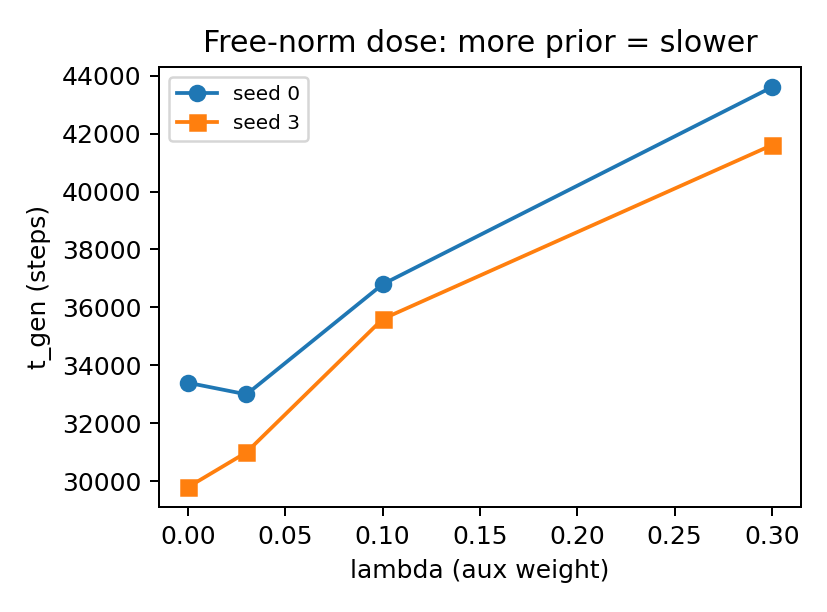
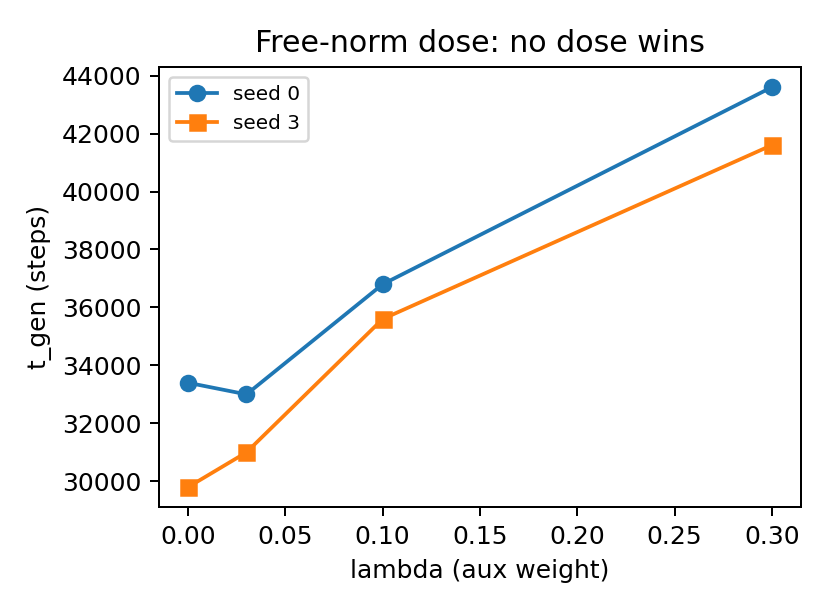
paper4: address user review — uncensored slope refit (ratio 1.03), two-orders fix, dose phrasing, codename note, heading

Changed region(s): [[0.2418, 0.031, 0.9069, 0.0931]]

diff --git a/mem-gen-delay/paper3/main.tex b/mem-gen-delay/paper3/main.tex
@@ -40,11 +40,12 @@ fails the pre-registered $0.85$ criterion within the $\pfBudget$-step budget on
 while the prior passes on 4/4 (\pfCNTAugCeilRange); at a relaxed $0.80$ criterion all seeds
 cross and the prior remains \pfCNTEightyRatioRange{} faster. \textbf{One pre-registered kill
 criterion fired and we report it}: the exponent-flattening magnitude does \emph{not} transfer
---- the fitted slope ratio is \pfSlopeRatio{} (a lower bound), versus ${\sim}\pfAlgFlatten$ on
-modular arithmetic; on natural data the prior buys a norm-growing multiplicative offset, not a
-slope change. Further pre-registered arms: a cross-example nearest-neighbor prior is null at
+--- the fitted slope ratio is \pfSlopeRatio{} (a censored lower bound; \pfSlopeRatioEighty{}
+when refit at a relaxed, fully uncensored criterion), versus ${\sim}\pfAlgFlatten$ on modular
+arithmetic; on natural data the prior buys a multiplicative offset, not a slope change.
+Further pre-registered arms: a cross-example nearest-neighbor prior is null at
 free norm (\pfNnTally{} under a pre-stated tally rule) despite \pfNnPurityRange{} label purity;
-the dose response is monotone and the norm side-effect saturates by $\lambda{=}0.03$, so
+the norm side-effect saturates by $\lambda{=}0.03$, so
 \emph{no} free-norm dose wins; the supervised prior transfers (\pfLabelMedSpeed{} on 5/5 seeds);
 wrong-structure pairing caps test accuracy at \pfShufCeilRange{} (the whether-dissociation
 transfers); and plain augmentation of the task loss abolishes the delay outright
@@ -224,7 +225,7 @@ in the repository):
   MNIST; no amended cell existed at pre-registration time.
 \end{itemize}
 
-\section{E2: at matched norm the prior wins everywhere; the exponent does not transfer}
+\section{E2: the prior wins wherever there is delay to win; the exponent does not transfer}
 \label{sec:e2}
 
 \begin{figure}[t]
@@ -247,8 +248,9 @@ within budget on only one of four seeds (\pfCNTBaseFinite{} steps; the others ce
 $\pfBudget$) while the prior reaches it on all four (\pfCNTAugRange). P1 and P2 are confirmed.
 The free-norm slowdown of Section~\ref{sec:free} is therefore fully attributable to the norm
 side-effect: remove the handicap by pinning both arms to the same clock, and the structure
-channel's benefit is present at every operating point, growing exactly where the delay law
-bites hardest.
+channel's benefit is present at every operating point where there is delay to win, and largest
+at the criterion level exactly where the delay law bites hardest (the robustness notes below
+decompose that growth).
 
 Two honesty notes on the pin-92 cell, both from post-hoc robustness checks (labeled as such;
 they were not pre-registered). First, censoring at the $0.85$ criterion partly reflects
@@ -267,10 +269,17 @@ branch (pins 50--92, censored cells scored at budget, making the baseline side a
 gives slope \pfSlopeBase{} per norm unit for baseline ($\pfSlopeBaseMult$ per $+10$) vs.\
 \pfSlopeAug{} for the prior ($\pfSlopeAugMult$ per $+10$): ratio \pfSlopeRatio{} (lower bound),
 far below both the pre-registered bar of 2 and the ${\sim}\pfAlgFlatten$ observed on modular
-arithmetic (\pfAlgCeSlope{} vs.\ \pfAlgSupconSlope{} per unit there). On natural data the prior
-shifts the delay-law curve down by a norm-growing factor; it does not change its exponent. The
-companion's most dramatic quantitative claim is, on this evidence, specific to settings where
-the generalizing solution is a sparse exact circuit.
+arithmetic (\pfAlgCeSlope{} vs.\ \pfAlgSupconSlope{} per unit there). Because the censored
+cells enter at budget, that fit by itself \emph{fails to confirm} a ratio $\geq 2$ rather than
+excluding one; the relaxed criterion closes the gap. Refit on the same pins and seeds at the
+$0.80$ bar --- uncensored in every cell --- the slopes are \pfSlopeBaseEighty{} (baseline)
+vs.\ \pfSlopeAugEighty{} (prior): ratio \pfSlopeRatioEighty. The absence of
+algorithmic-magnitude flattening is therefore an assertion, not a failure to confirm, and no
+censoring correction to the $0.85$ fit could plausibly recover \pfAlgFlatten. On natural data
+the prior shifts the delay-law curve down; it does not change its exponent (the apparent growth
+of the criterion-level ratios with norm traces to the budget-attained accuracy gap at high
+pins, per the robustness notes above). The companion's most dramatic quantitative claim is, on
+this evidence, specific to settings where the generalizing solution is a sparse exact circuit.
 
 \section{E3 and E4: content and dose}
 \label{sec:e3e4}
@@ -306,17 +315,18 @@ free-norm null is expected rather than exculpatory.
 \centering
 \includegraphics[width=0.42\textwidth]{figs/fig5_dose.pdf}\hfill
 \includegraphics[width=0.55\textwidth]{figs/fig4_probes.pdf}
-\caption{\textbf{Left (E4):} free-norm dose response, seeds 0 and 3. More prior is
-monotonically slower; even $\lambda{=}0.03$ freezes the norm near \pfDoseTinyNorm{} (the
-side-effect saturates before the benefit does), so no dose wins at free norm. \textbf{Right
+\caption{\textbf{Left (E4):} free-norm dose response, seeds 0 and 3. $\lambda{=}0.03$ is
+break-even with baseline and every larger dose is slower; even the tiny dose freezes the norm
+near \pfDoseTinyNorm{} (the side-effect saturates before the benefit does), so no dose wins at
+free norm. \textbf{Right
 (P5):} class cosine gap (probe) vs.\ test accuracy for the view prior (seed 0): structure is
 in place by ${\sim}1$--$2$k steps; behavior moves at ${\sim}16$--$20$k.}
 \label{fig:doseprobes}
 \end{figure}
 
 \paragraph{E4.} The dose response (Figure~\ref{fig:doseprobes}, left; $\lambda \in
-\{0, 0.03, 0.1, 0.3\}$) is monotone: at $\lambda{=}0.03$ the prior is break-even with baseline,
-and every larger dose is slower. The mechanism is unforgiving: the norm-freeze equilibrium
+\{0, 0.03, 0.1, 0.3\}$): $\lambda{=}0.03$ is break-even with baseline, and every larger dose
+is monotonically slower. The mechanism is unforgiving: the norm-freeze equilibrium
 barely moves with $\lambda$ (final $\W \approx \pfDoseTinyNorm$ even at $0.03$), so the
 Channel-2 handicap arrives at full strength before any Channel-1 benefit can pay for it. There
 is no free lunch at free norm; the confound is not a tuning artifact.
@@ -342,14 +352,15 @@ state the change.)
 data: content decides \emph{whether} (supervised prior \pfLabelMedSpeed{} on 5/5; wrong
 structure capped at \pfShufCeilRange{} with exploding norm), the weight norm is the clock
 (baseline generalizes precisely as $\W$ decays to \pfBaseNormAtGen; pinning $\W$ reproduces
-delay-law growth over four orders of magnitude of $\tgen$), the structure channel is real and
+delay-law growth over more than two orders of magnitude of $\tgen$, from \pfClampFloor{} steps
+at pin 23 to beyond the \pfBudget-step budget at pin 92), the structure channel is real and
 separable (matched-norm wins on every seed at every pin $\geq 50$, growing to
 \pfRatioCNinetyTwo{} where the baseline mostly fails criterion within budget), and structure
 demonstrably precedes behavior in the prior arms.
 
 \paragraph{What does not.} The exponent. On modular arithmetic, structure injection flattened
 the delay-law slope ${\sim}$\pfAlgFlatten; here the slopes are near-parallel
-(ratio \pfSlopeRatio, lower bound). Our working hypothesis, stated as hypothesis: exponent
+(ratio \pfSlopeRatio{} censored, \pfSlopeRatioEighty{} uncensored). Our working hypothesis, stated as hypothesis: exponent
 flattening requires the generalizing solution to be a sparse exact circuit whose features the
 prior can seed directly, as in \citep{nanda2023progress,gromov2023grokking}; MNIST's
 generalizing solution is a dense statistical classifier, and there a representational head
@@ -397,7 +408,8 @@ Section~\ref{sec:prereg}), not third-party; we consider the commits adequate for
 ``predictions preceded results'' and note their limits. P2 was disclosed non-blind. K3 as
 written (both-seed failure at $n{=}2$) could not fire on a 1--1 split; the pre-stated
 four-seed tally rule resolved E3 and we ran no seeds beyond it. The pin-92 robustness checks
-(budget-attained accuracy; the $0.80$ criterion) are post-hoc and labeled as such. The
+(budget-attained accuracy; the $0.80$ criterion, including the uncensored slope refit) are
+post-hoc and labeled as such. The
 $\pfAlgFlatten$ comparator inherits the companion's caveat that its plain-CE slope is itself a
 censored lower bound. $\tfit$ is essentially unaffected by the auxiliary term
 (\pfTfitFreeRange{} steps across all free-norm content arms), so none of the effects here are
@@ -410,6 +422,9 @@ exponent.
 \label{sec:repro}
 
 \begin{sloppypar}
+This study's internal codename is \texttt{paper4} (fourth project phase); it is the third
+manuscript in the repository, hence the \texttt{paper3/} directory --- runner and analysis
+filenames and commit messages use the codename.
 All numbers in this paper are macros generated from the run artifacts by
 \texttt{paper3/gen\_numbers.py} (writing \texttt{numbers.tex}) and byte-verified by
 \texttt{paper3/verify\_regen.py}. The analysis pipeline is

diff --git a/mem-gen-delay/paper3/gen_numbers.py b/mem-gen-delay/paper3/gen_numbers.py
@@ -142,6 +142,30 @@ M("pfCNTBaseEightyRange", rng(num(min(b80f)), num(max(b80f))))
 M("pfCNTAugEightyRange", rng(num(min(a80)), num(max(a80))))
 r80 = [(100000 if b is None else b) / a for b, a in zip(b80, a80)]
 M("pfCNTEightyRatioRange", rng(f"{min(r80):.2f}", f"{max(r80):.2f}") + "\\ensuremath{\\times}")
+# slope refit at the relaxed 0.80 criterion: same pins (50-92), same seeds, but UNCENSORED in
+# every cell — closes the "censored fit can only fail to confirm >= 2" objection to K2
+import math
+
+def ols_slope(pts):
+    """OLS slope of ln(t) on norm, matching analysis/analyze_paper4.py's fit."""
+    xs = [p[0] for p in pts]
+    ys = [math.log(p[1]) for p in pts]
+    mx, my = sum(xs) / len(xs), sum(ys) / len(ys)
+    return sum((x - mx) * (y - my) for x, y in zip(xs, ys)) / sum((x - mx) ** 2 for x in xs)
+
+pts80 = {"base": [], "aug": []}
+for arm in ("base", "aug"):
+    for c in (50, 65, 80, 92):
+        for s in (0, 1, 3, 4):
+            t = t_cross("grid4b", f"{arm}_c{c}_s{s}", 0.80)
+            assert t is not None, f"unexpected censoring at 0.80: {arm}_c{c}_s{s}"
+            pts80[arm].append((c, t))
+a_b = ols_slope(pts80["base"])
+a_a = ols_slope(pts80["aug"])
+M("pfSlopeBaseEighty", f"{a_b:.3f}", a_b)
+M("pfSlopeAugEighty", f"{a_a:.3f}", a_a)
+M("pfSlopeRatioEighty", f"{a_b / a_a:.2f}", a_b / a_a)
+
 # budget-attained accuracy at pin 92 (the criterion-vs-ceiling decomposition)
 bceil = [max(r["test_acc"] for r in load_run("grid4b", f"base_c92_s{s}")[1]) for s in (0, 1, 3, 4)]
 aceil = [max(r["test_acc"] for r in load_run("grid4b", f"aug_c92_s{s}")[1]) for s in (0, 1, 3, 4)]

diff --git a/mem-gen-delay/paper3/numbers.tex b/mem-gen-delay/paper3/numbers.tex
@@ -62,9 +62,12 @@
 \newcommand{\pfShufCensored}{5/5}
 \newcommand{\pfShufNormRange}{133--137}
 \newcommand{\pfSlopeAug}{0.049}
+\newcommand{\pfSlopeAugEighty}{0.057}
 \newcommand{\pfSlopeAugMult}{1.63\ensuremath{\times}}
 \newcommand{\pfSlopeBase}{0.057}
+\newcommand{\pfSlopeBaseEighty}{0.058}
 \newcommand{\pfSlopeBaseMult}{1.77\ensuremath{\times}}
 \newcommand{\pfSlopeRatio}{1.17}
+\newcommand{\pfSlopeRatioEighty}{1.03}
 \newcommand{\pfTfitFreeRange}{600--800}
 \newcommand{\pfTotalRuns}{83}

diff --git a/mem-gen-delay/analysis/analyze_paper4.py b/mem-gen-delay/analysis/analyze_paper4.py
@@ -289,7 +289,7 @@ def main():
               for l in lams]
         ax.plot(lams, ys, marker=mk, lw=1.5, label=f"seed {s}")
     ax.set(xlabel="lambda (aux weight)", ylabel="t_gen (steps)",
-           title="Free-norm dose: more prior = slower")
+           title="Free-norm dose: no dose wins")
     ax.legend(fontsize=8)
     fig.tight_layout()
     for ext in ("pdf", "png"):

diff --git a/mem-gen-delay/STATUS.md b/mem-gen-delay/STATUS.md
@@ -15,6 +15,22 @@ pin ceiling range 0.91--0.93 not 0.91--0.92. Both hand-typed guesses were wrong;
 User actions before submission: author block confirm; arXiv timing/order vs Papers 1+3;
 cs.LG primary + stat.ML cross-list as before; wire real arXiv IDs into companion cross-cites.
 
+### User review response (2026-07-14, all 6 items addressed)
+1. UNCENSORED SLOPE REFIT (the one that mattered): 0.80-bar refit, same pins/seeds, zero
+   censoring -> slopes 0.058 vs 0.057, RATIO 1.03 (vs 1.17 censored LB). K2's negative is now
+   an assertion, not a failure-to-confirm. Added to abstract + Sec 5 + Sec 8; also required
+   tempering "norm-growing offset" -> the criterion-level ratio growth traces to the
+   budget-attained-accuracy gap at high pins, stated in Sec 5.
+2. "four orders of magnitude" -> "more than two orders (400-600 to beyond 100k)" — arithmetic
+   slip in un-macro'd prose, exactly the failure mode the reviewer named.
+3. paper3/-vs-paper4 codename note added to Reproducibility.
+4. Sec 5 heading -> "the prior wins wherever there is delay to win".
+5. GitHub push for third-party timestamps: pending repo-scope decision (git root spans multiple
+   research projects) — surfaced to user.
+6. "dose response is monotone" -> "no dose wins at free norm" (abstract, Sec 6, fig 3 caption,
+   fig title). Seed-0 lam0.03 dips trivially below baseline; monotone was wrong as stated.
+arxiv_abstract.txt now 1,910 chars; zip rebuilt + clean-room re-verified (9pp).
+
 ## P4 PRE-REGISTERED AMENDMENT (E2/E3/E4) — committed 2026-07-14 BEFORE any amended run starts
 
 Context (from the completed free-norm cells of runs/grid4, 4 seeds each): supcon_aug is SLOWER at